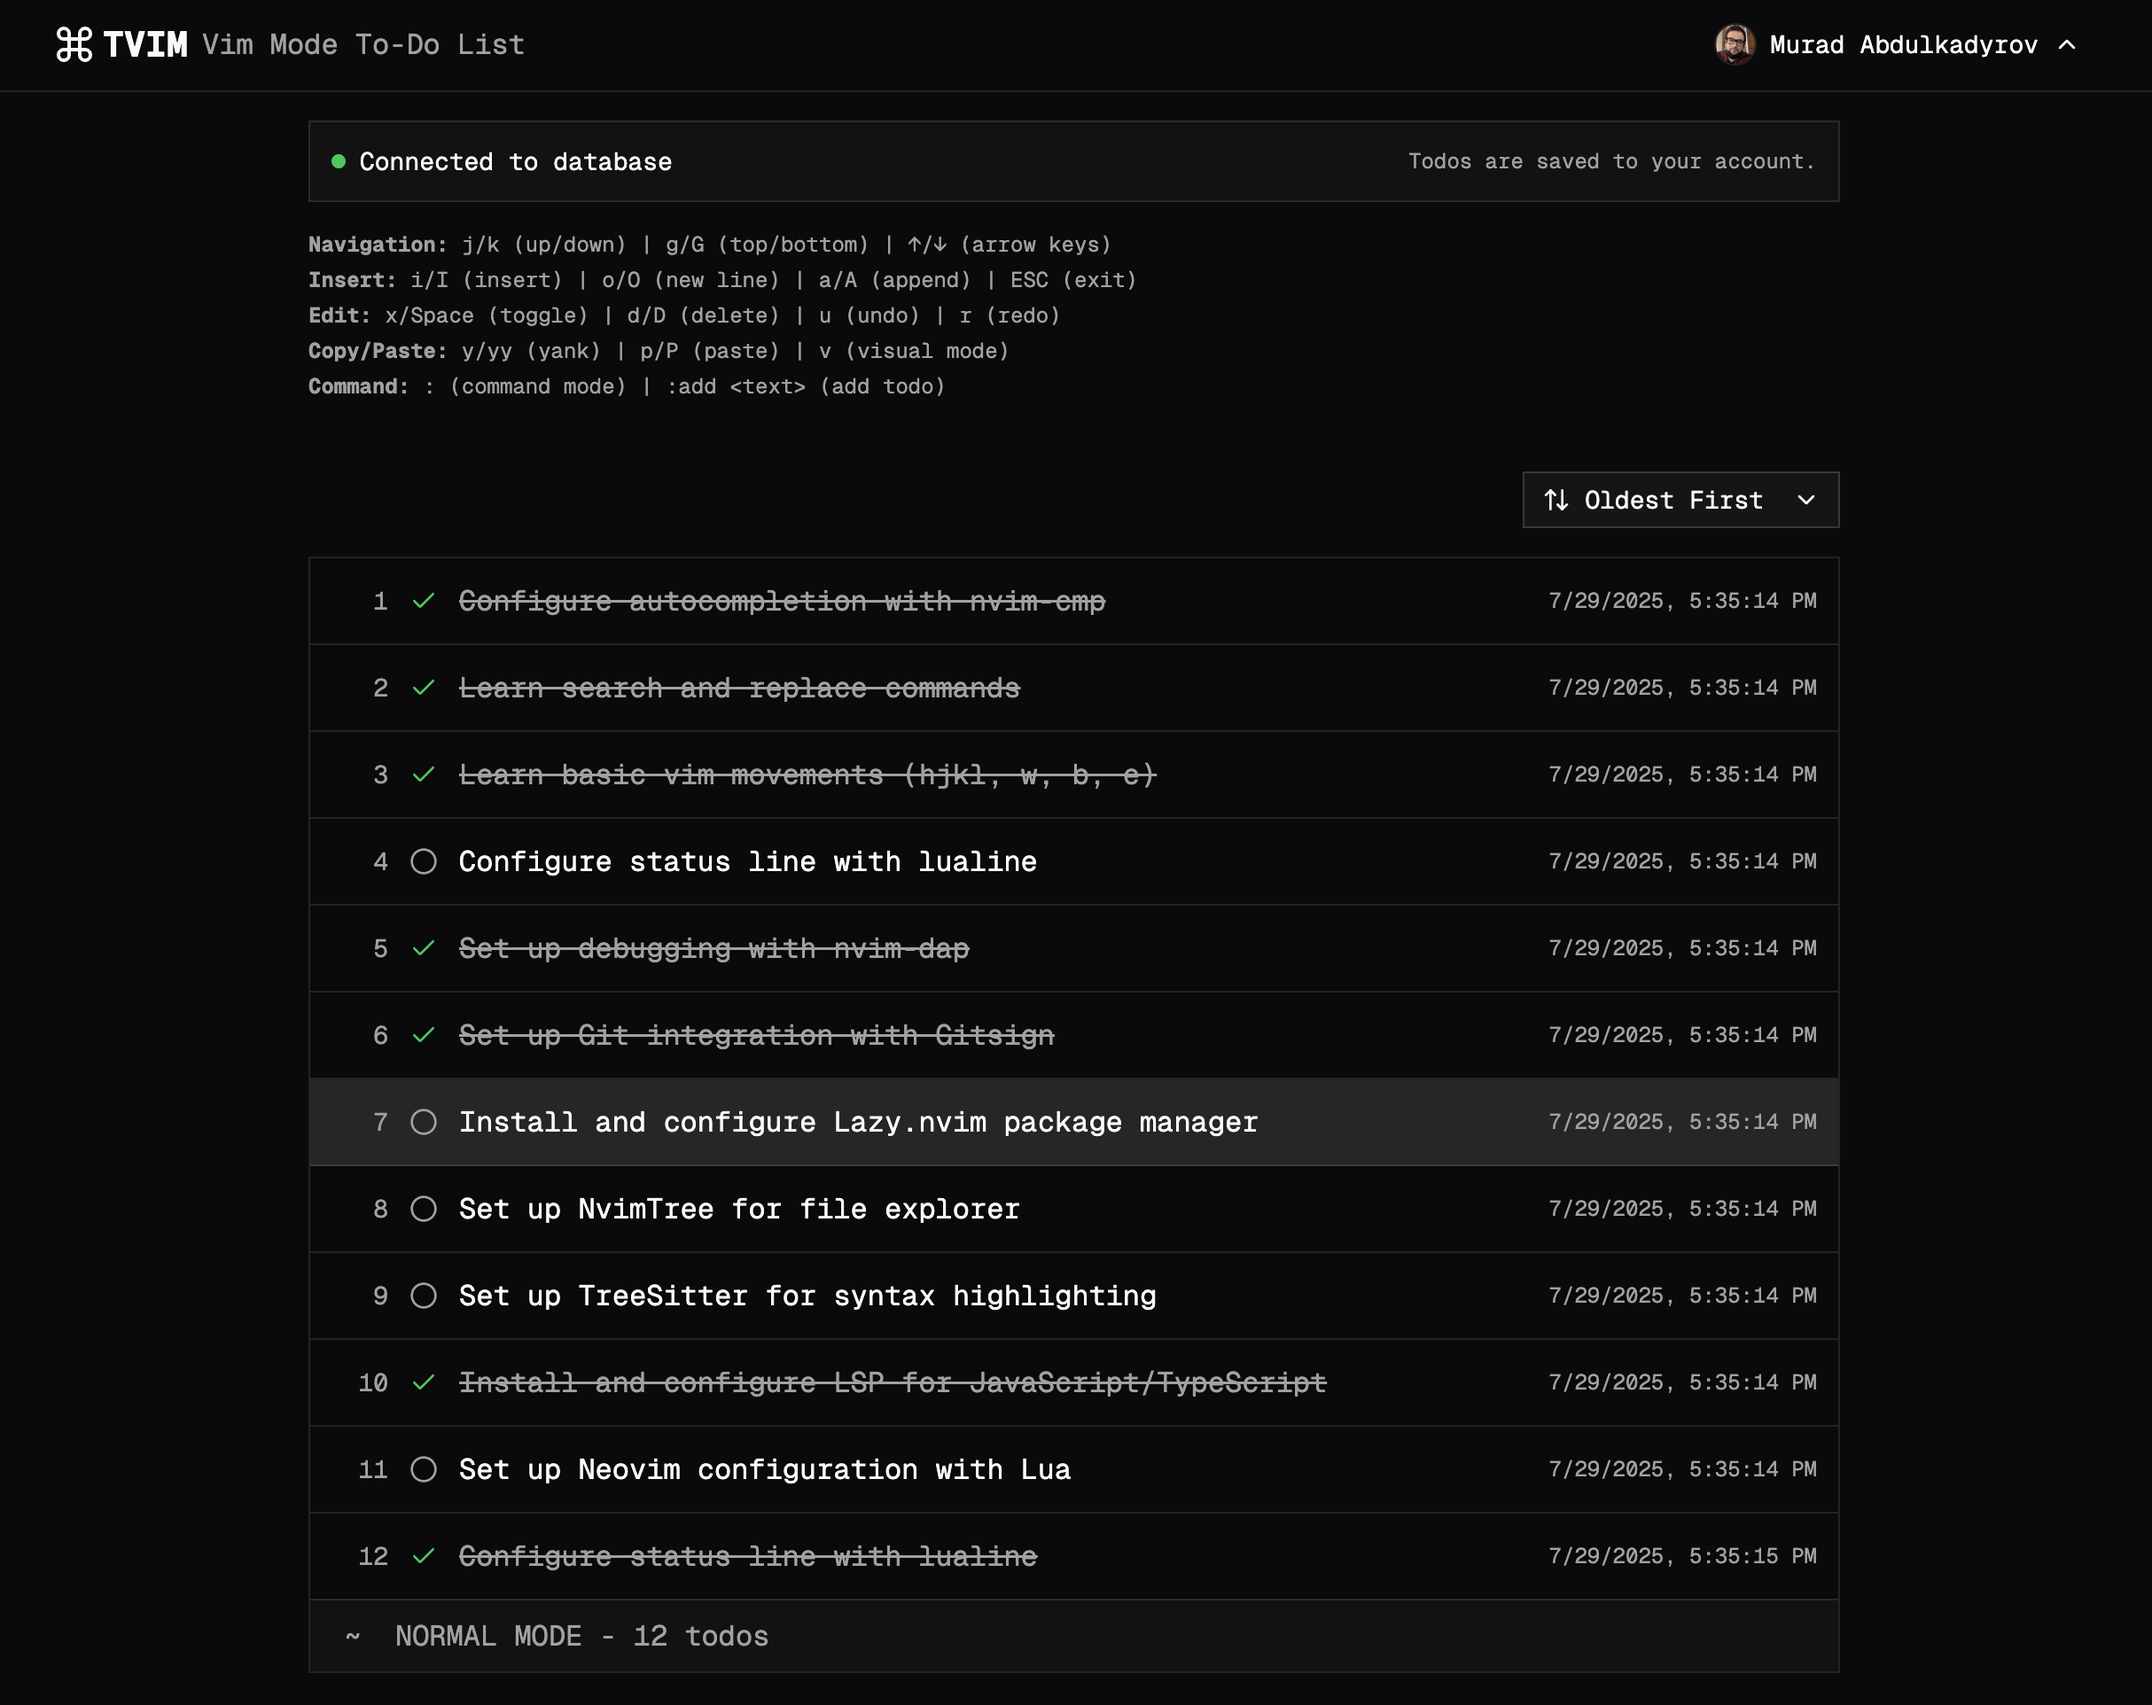
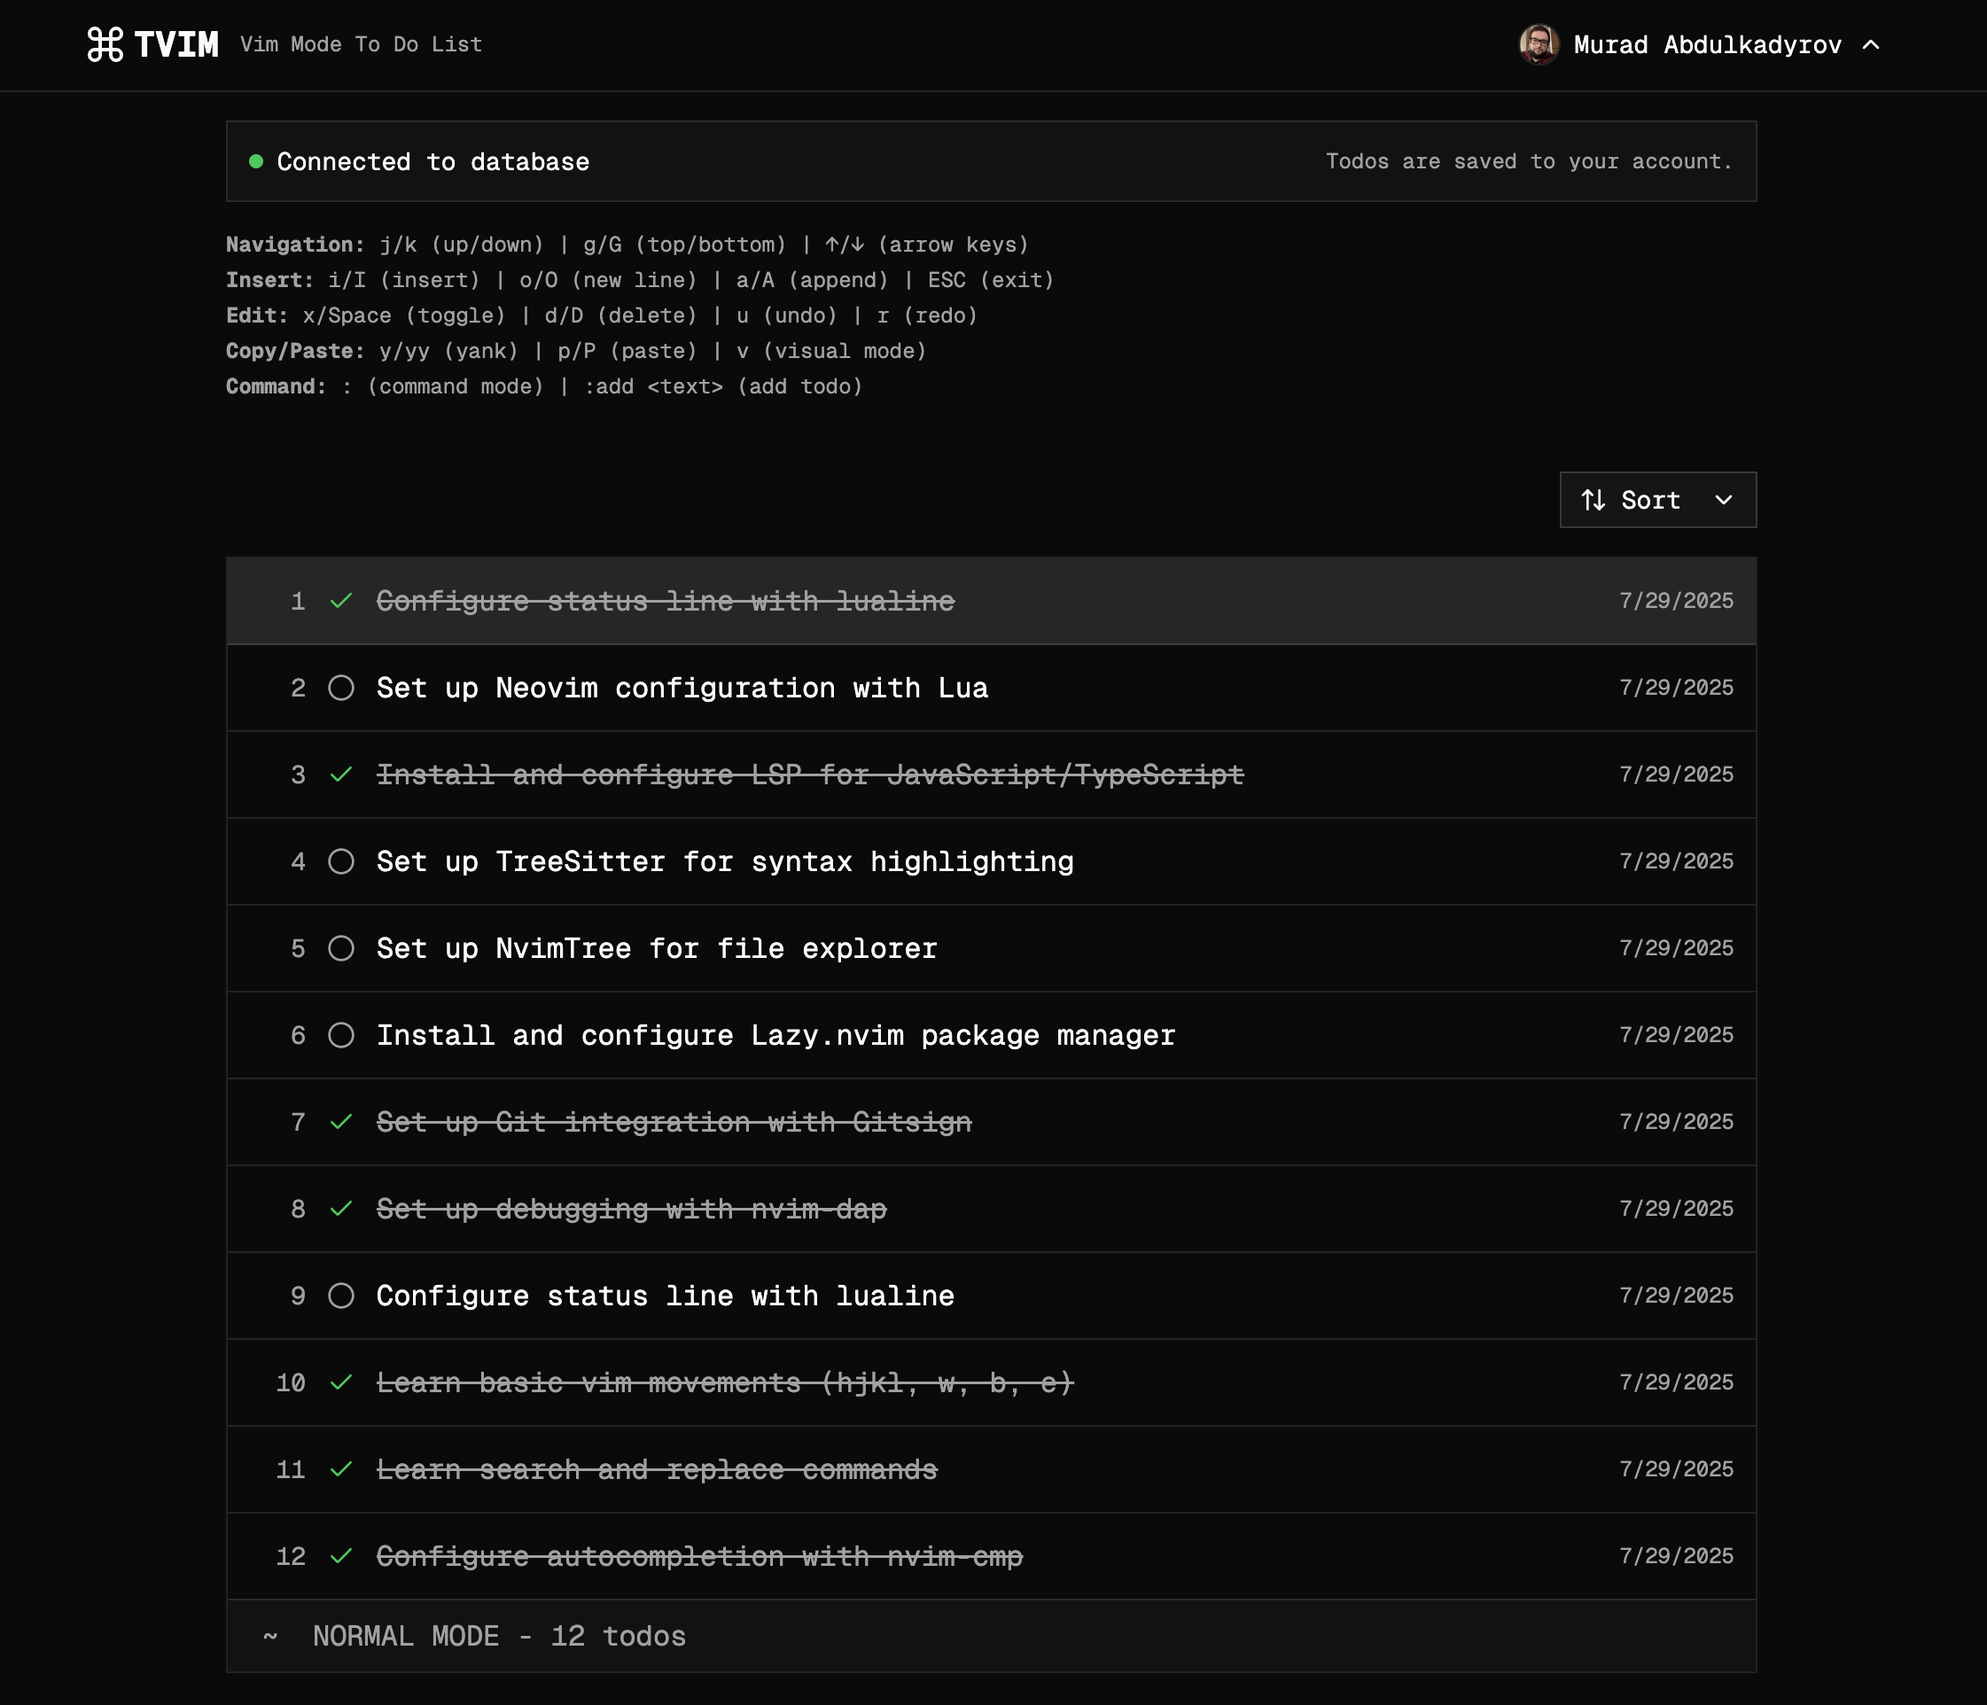
fix: update header title

diff --git a/src/components/todo-app.tsx b/src/components/todo-app.tsx
@@ -123,9 +123,9 @@ export function TodoApp() {
 	const getSortButtonText = () => {
 		switch (sortType) {
 			case "date-newest":
-				return "Newest First";
+				return "Newest first";
 			case "date-oldest":
-				return "Oldest First";
+				return "Oldest first";
 			default:
 				return "Sort";
 		}
@@ -234,10 +234,10 @@ export function TodoApp() {
 							</DropdownMenuTrigger>
 							<DropdownMenuContent>
 								<DropdownMenuItem onClick={() => setSortType("date-newest")}>
-									Date (Newest First)
+									Date: Newest first
 								</DropdownMenuItem>
 								<DropdownMenuItem onClick={() => setSortType("date-oldest")}>
-									Date (Oldest First)
+									Date: Oldest first
 								</DropdownMenuItem>
 							</DropdownMenuContent>
 						</DropdownMenu>

diff --git a/src/components/header.tsx b/src/components/header.tsx
@@ -12,15 +12,15 @@ export function Header() {
 
 	return (
 		<header className="sticky top-0 z-50 bg-background border-b border-border px-4 py-2">
-			<div className="max-w-6xl mx-auto flex items-center justify-between">
+			<div className="max-w-5xl mx-auto flex items-center justify-between">
 				<Link
 					to="/"
 					className="flex items-center gap-1 text-xl font-bold text-foreground"
 				>
 					<Icons.tvim className="w-6 h-6" />
 					<span>TVIM</span>
-					<span className="hidden md:block text-muted-foreground text-base font-normal ml-1">
-						Vim Mode To-Do List
+					<span className="hidden md:block text-muted-foreground text-xs font-normal ml-2">
+						Vim Mode To Do List
 					</span>
 				</Link>
 
